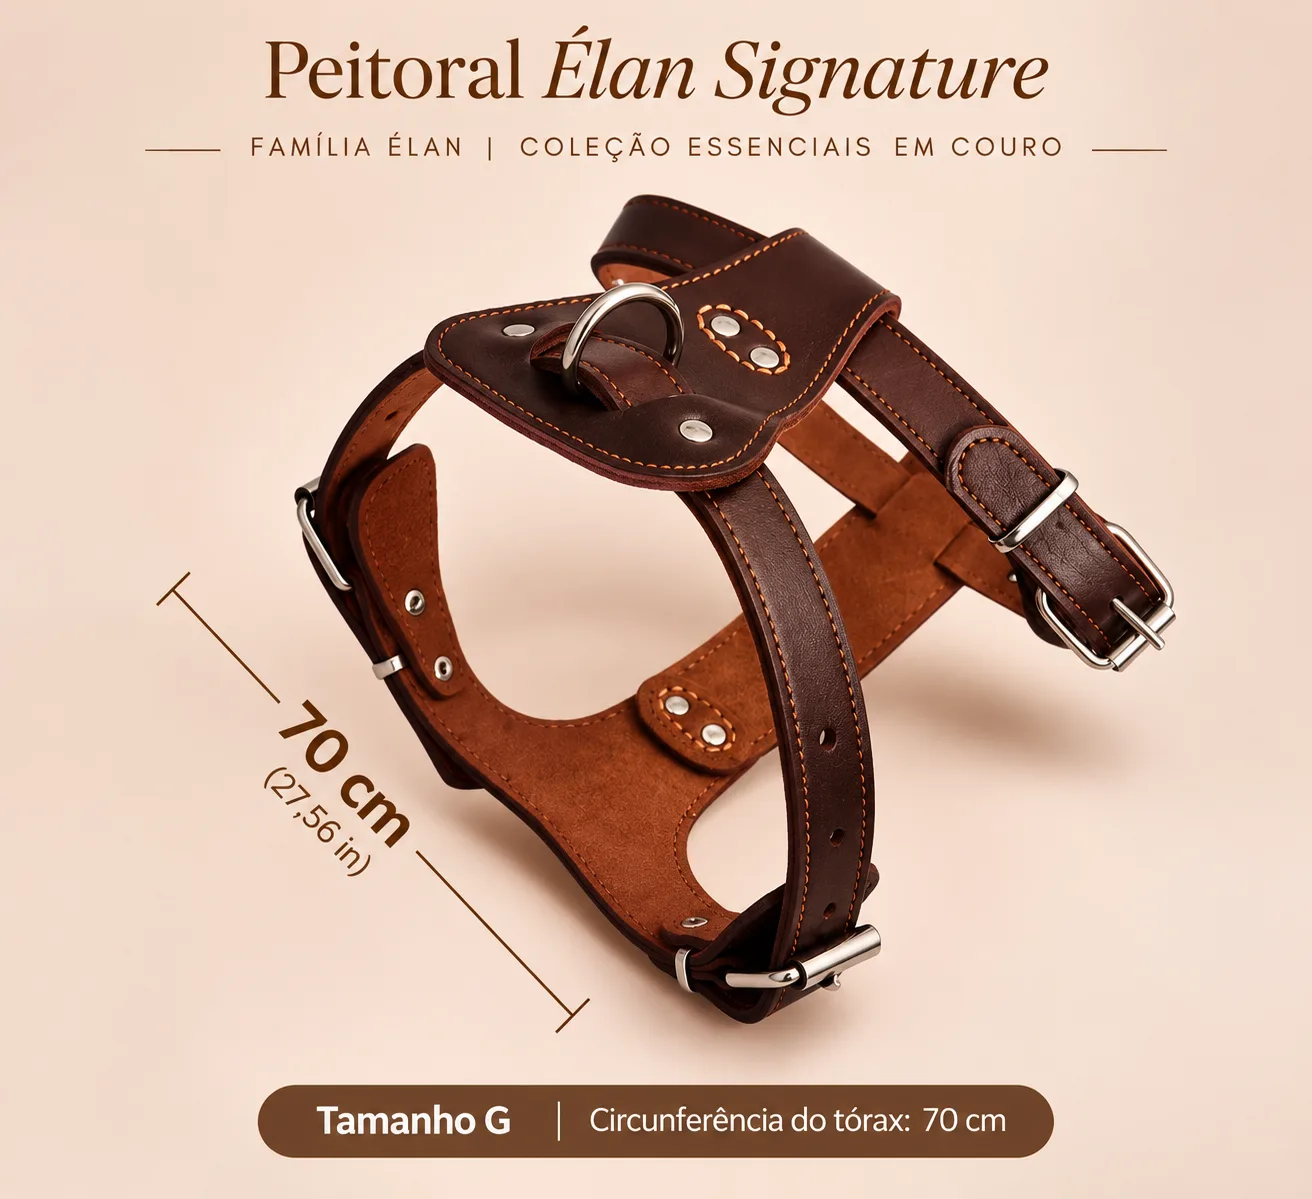
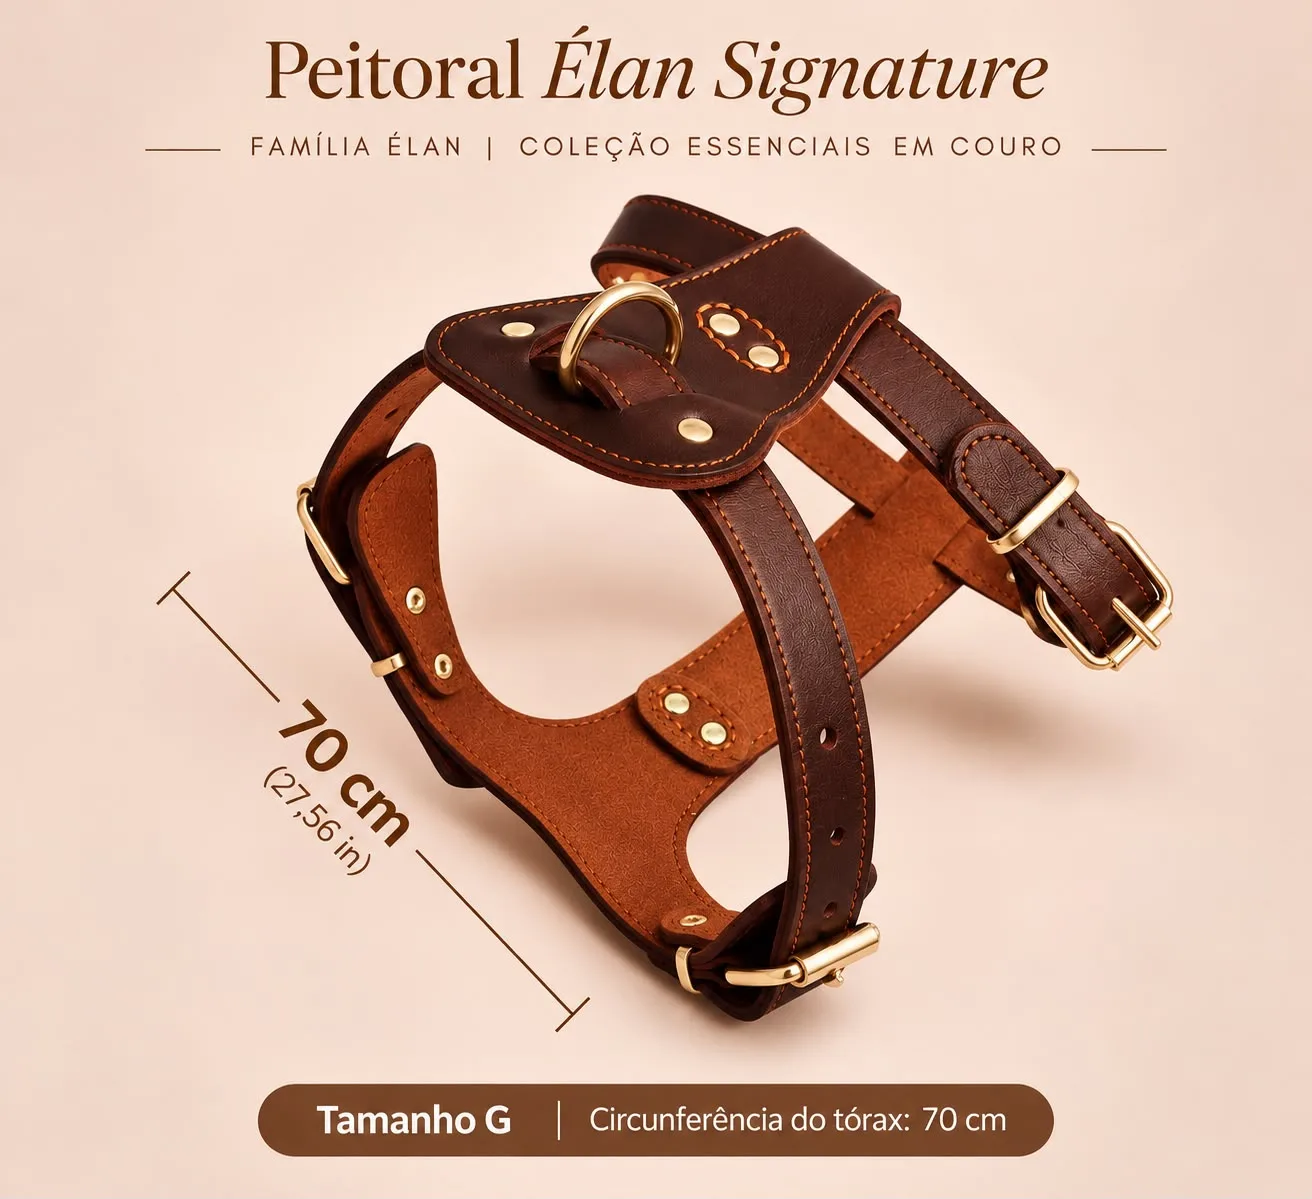
feat(catalogo): peitoral Élan Signature com cor única, medida do G e fotos novas

diff --git a/src/data/productDetails.js b/src/data/productDetails.js
@@ -622,19 +622,20 @@ export const PRODUCT_DETAILS = {
     specs: {
       material: 'Couro bovino de flor integral (anunciado pelo fornecedor)',
       construcao: 'Camada dupla',
-      cores: 'Preto com detalhes marrons; Branco com detalhes pretos',
+      cor: 'Marrom escuro, com costuras em tom caramelo',
+      medidas: 'G: circunferência do tórax de 70 cm (informada pelo fornecedor)',
       tamanhos: 'M (Médio) e G (Grande)',
       indicacao: 'Cães de porte médio e grande (indicado pelo fornecedor)',
-      ferragens: 'Metálicas',
+      ferragens: 'Douradas',
     },
     howToChooseSize: 'Consulte as medidas do seu pet para escolher o tamanho adequado. A escolha deve considerar as medidas corporais, não apenas o peso ou a raça. Em caso de dúvida, confirme conosco pelo WhatsApp antes de comprar.',
     whatsIncluded: [
-      '1 Peitoral Élan Signature, no tamanho e na cor escolhidos',
+      '1 Peitoral Élan Signature, no tamanho escolhido',
     ],
     careInstructions: 'Limpar delicadamente com pano macio e seco. Evitar exposição prolongada à umidade e armazenar em local arejado.',
     faq: [
       { question: 'Para quais cães é indicado?', answer: 'O fornecedor indica o modelo para cães de porte médio e grande.' },
-      { question: 'Quais tamanhos e cores existem?', answer: 'Tamanhos M (Médio) e G (Grande); cores preto com detalhes marrons e branco com detalhes pretos. A cor é combinada pelo WhatsApp.' },
+      { question: 'Quais tamanhos e cor estão disponíveis?', answer: 'Tamanhos M (Médio) e G (Grande), em marrom escuro com costuras em tom caramelo.' },
       { question: 'Como escolho o tamanho?', answer: 'Pelas medidas corporais do pet, não só peso ou raça. Em caso de dúvida, fale conosco pelo WhatsApp.' },
       { question: 'Qual é o material?', answer: 'O fornecedor anuncia couro bovino de flor integral, com construção em camada dupla.' },
       { question: 'Como cuidar da peça?', answer: 'Limpar delicadamente com pano macio e seco, evitar exposição prolongada à umidade e armazenar em local arejado.' },

diff --git a/src/data/products.js b/src/data/products.js
@@ -737,7 +737,7 @@ export const PRODUCTS = [
     bullets: [
       'Material anunciado: couro bovino de flor integral',
       'Construção com camada dupla',
-      'Design com detalhes em blocos de cores',
+      'Costuras aparentes em tom contrastante',
       'Tiras ajustáveis',
       'Ferragens e pontos de fixação metálicos',
       'Modelo indicado pelo fornecedor para cães de porte médio e grande',

diff --git a/src/components/pages/ProductPage.jsx b/src/components/pages/ProductPage.jsx
@@ -92,6 +92,7 @@ const SPEC_LABELS = {
   frete: 'Frete',
   construcao: 'Construção',
   cores: 'Cores',
+  medidas: 'Medidas',
 };
 
 export default function ProductPage() {
